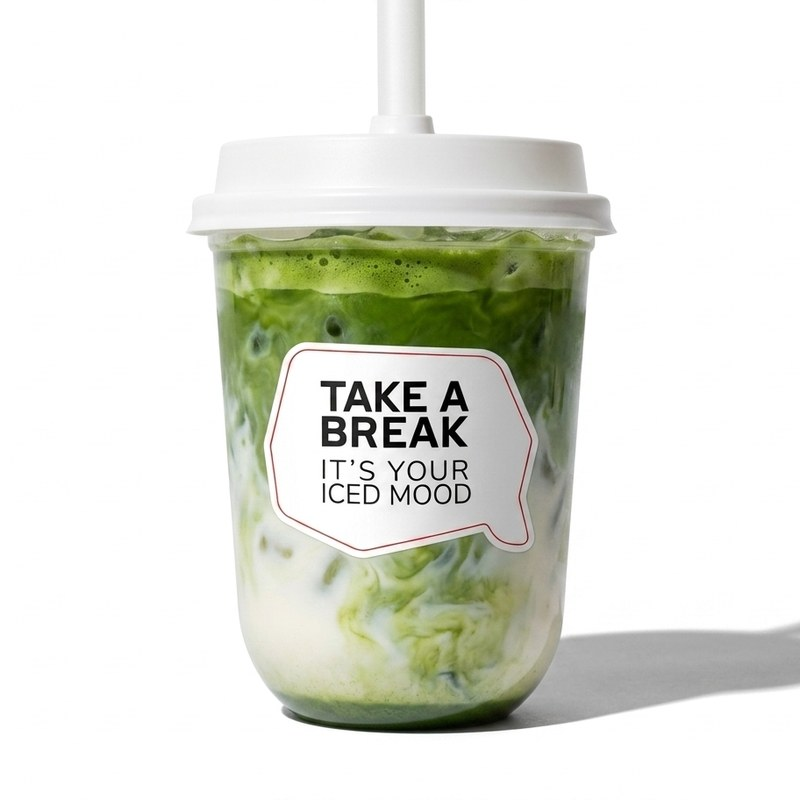
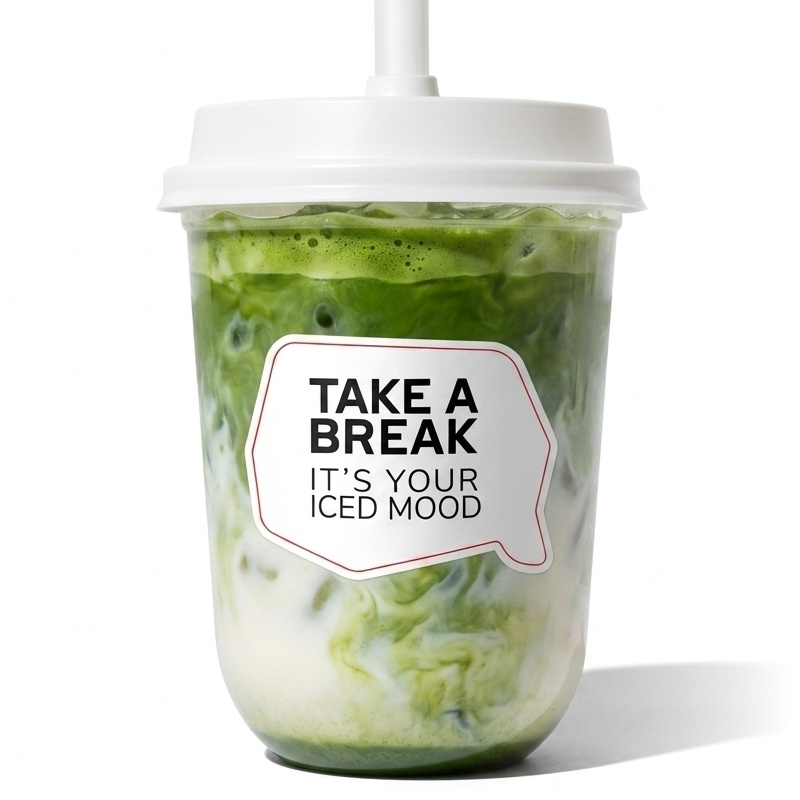
fix: fade out hard shadow edge on ice matcha latte

Changed region(s): [[0.1875, 0.0, 1.0, 1.0]]

diff --git a/index.html b/index.html
@@ -1,4 +1,4 @@
-<!-- BARISTA AGENT TWA - VERSION 2.4 -->
+<!-- BARISTA AGENT TWA - VERSION 2.5 -->
 <!DOCTYPE html>
 <html lang="uk">
 <head>

diff --git a/scratch/fix_matcha_shadow.py b/scratch/fix_matcha_shadow.py
@@ -1,0 +1,51 @@
+from PIL import Image, ImageDraw
+
+def fix_shadow(input_path, output_path):
+    img = Image.open(input_path).convert("RGBA")
+    width, height = img.size
+    
+    r, g, b, a = img.split()
+    mask = Image.new("L", (width, height), 255)
+    draw = ImageDraw.Draw(mask)
+    
+    # Claude cropped center 800x800. Right edge of crop is at x=990
+    crop_right = (width - 800) // 2 + 800  # 190 + 800 = 990
+    
+    # Let's fade out completely before x=980
+    fade_end = 980
+    fade_start = 650
+    
+    for x in range(fade_start, width):
+        if x >= fade_end:
+            alpha_val = 0
+        else:
+            ratio = (x - fade_start) / (fade_end - fade_start)
+            # smooth step or ease out
+            alpha_val = int(255 * (1 - ratio**1.5))
+        draw.line([(x, 0), (x, height)], fill=alpha_val)
+        
+    a_new = Image.eval(a, lambda px: px)
+    mask_pixels = mask.load()
+    a_pixels = a_new.load()
+    
+    for y in range(height):
+        for x in range(width):
+            if x >= fade_start:
+                a_pixels[x, y] = int((a_pixels[x, y] * mask_pixels[x, y]) / 255)
+                
+    img = Image.merge("RGBA", (r, g, b, a_new))
+    
+    left = (width - 800) // 2
+    top = (height - 800) // 2
+    right = left + 800
+    bottom = top + 800
+    
+    img_cropped = img.crop((left, top, right, bottom))
+    
+    bg = Image.new("RGB", (800, 800), (255, 255, 255))
+    bg.paste(img_cropped, (0, 0), img_cropped)
+    
+    bg.save(output_path, quality=95)
+    print(f"Fixed {output_path}")
+
+fix_shadow("menu images/seasonal drinks/айс матча лате.png", "img/ice_matcha.jpg")

diff --git a/scratch/fix_shadow.py b/scratch/fix_shadow.py
@@ -1,0 +1,33 @@
+from PIL import Image, ImageOps
+
+def process_img(in_path, out_path, bg_color=(255, 255, 255)):
+    # Open the image
+    img = Image.open(in_path).convert("RGBA")
+    
+    # We want to output a square 800x800 JPG
+    # Let's see the bounding box of the non-zero alpha
+    bbox = img.getbbox()
+    print(f"Original bounding box for {in_path}: {bbox}")
+    
+    # Let's just create a thumbnail that fits into 800x800, maintaining aspect ratio
+    # First, create a new white background
+    bg = Image.new("RGB", (800, 800), bg_color)
+    
+    # We can crop the image to its bbox first
+    cropped = img.crop(bbox)
+    
+    # Now resize cropped to fit within 700x700 to leave some padding
+    cropped.thumbnail((700, 700), Image.Resampling.LANCZOS)
+    
+    # Paste the resized image onto the center of the white background
+    offset_x = (800 - cropped.width) // 2
+    offset_y = (800 - cropped.height) // 2
+    
+    # Actually, we might need to match the ice latte. Let's do the same for ice latte to see if they look consistent.
+    bg.paste(cropped, (offset_x, offset_y), cropped)
+    
+    bg.save(out_path, quality=95)
+    print(f"Saved {out_path}")
+
+process_img("menu images/seasonal drinks/айс матча лате.png", "img/ice_matcha_test.jpg")
+process_img("menu images/seasonal drinks/айс лате.png", "img/ice_latte_test.jpg")

diff --git a/scratch/check_edge.py b/scratch/check_edge.py
@@ -1,0 +1,15 @@
+from PIL import Image
+
+img = Image.open("menu images/seasonal drinks/айс матча лате.png").convert("RGBA")
+width, height = img.size
+
+# Let's check the alpha values on the rightmost column
+right_edge_alphas = [img.getpixel((width-1, y))[3] for y in range(height)]
+max_alpha = max(right_edge_alphas)
+print(f"Max alpha on the right edge: {max_alpha}")
+
+# Let's check the right edge of ice_latte
+img2 = Image.open("menu images/seasonal drinks/айс лате.png").convert("RGBA")
+width2, height2 = img2.size
+right_edge_alphas2 = [img2.getpixel((width2-1, y))[3] for y in range(height2)]
+print(f"Max alpha on the right edge of ice latte: {max(right_edge_alphas2)}")

diff --git a/scratch/check_images.py b/scratch/check_images.py
@@ -1,0 +1,14 @@
+from PIL import Image
+import os
+
+def check_img(path):
+    if os.path.exists(path):
+        img = Image.open(path)
+        print(f"{path}: size={img.size}, mode={img.mode}")
+    else:
+        print(f"{path} not found")
+
+check_img("menu images/seasonal drinks/айс матча лате.png")
+check_img("menu images/seasonal drinks/айс лате.png")
+check_img("img/ice_matcha.jpg")
+check_img("img/ice_latte.jpg")
